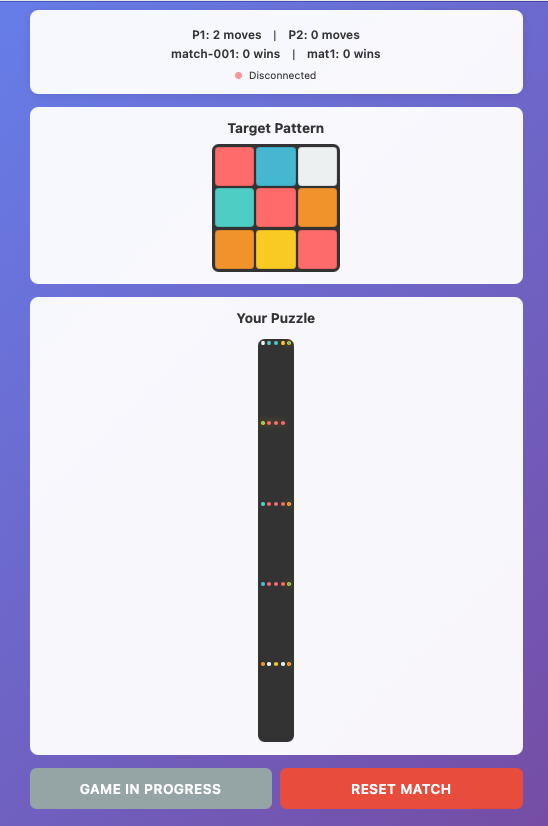
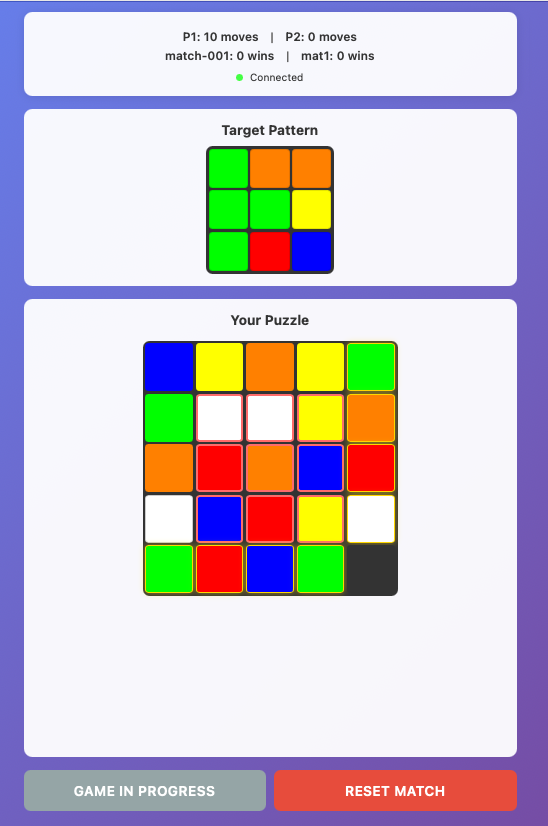
tweaked ui, fixed colors, removed valid move borders

Changed region(s): [[0.031, 0.0, 0.9617, 0.9988]]

diff --git a/public/styles.css b/public/styles.css
@@ -187,8 +187,8 @@ body {
 }
 
 .game-tile.valid-move {
-    border-color: #ffd700;
-    box-shadow: 0 0 8px rgba(255, 215, 0, 0.5);
+    border-color: transparent;
+    box-shadow: none;
 }
 
 .game-tile.empty {
@@ -197,17 +197,17 @@ body {
 }
 
 .game-tile.center {
-    border-color: #ff6b6b;
-    border-width: 3px;
+    border-color: transparent;
+    border-width: 2px;
 }
 
 /* Color Classes */
-.red { background: #ff6b6b; }
-.blue { background: #4ecdc4; }
-.green { background: #45b7d1; }
-.yellow { background: #f9ca24; }
-.orange { background: #f0932b; }
-.white { background: #ecf0f1; }
+.red { background: #ff0000; }
+.blue { background: #0000ff; }
+.green { background: #00ff00; }
+.yellow { background: #ffff00; }
+.orange { background: #ff8000; }
+.white { background: #ffffff; border: 1px solid #ccc; }
 
 /* Control Panel */
 .control-panel {

diff --git a/public/game.js b/public/game.js
@@ -159,11 +159,14 @@ class RubikRaceClient {
     }
 
     handleMoveUpdate(data) {
+        console.log(`Move update received: ${data.playerName} made a move, I am ${this.gameState.playerName}`);
         if (data.playerName === this.gameState.playerName) {
+            console.log('Updating MY board');
             this.gameState.moves = data.moves;
             this.gameState.board = [...data.board];
             this.renderBoard();
         } else {
+            console.log('Updating opponent move count only');
             this.gameState.opponentMoves = data.moves;
         }
         this.updateMoveCounters();

diff --git a/full_game_spec.md b/full_game_spec.md
@@ -74,7 +74,7 @@ A real-time, competitive two-player sliding puzzle game based on the physical Ru
 - **Touch Targets**: Minimum 44px for mobile accessibility
 - **Animations**: Smooth tile sliding transitions (200ms)
 - **Responsive**: Auto-scale for different screen sizes
-- **Visual Feedback**: Highlight valid moves, winner celebration
+- **Visual Feedback**: Do not highlight valid moves, winner celebration
 
 ## 4. Server Architecture
 
